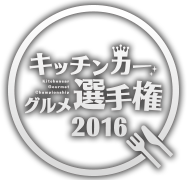
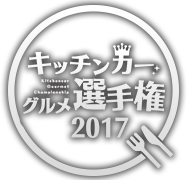
KCC-86 ロゴ画像修正（下層ページ）#close

diff --git a/themes/kitchencar-gourmet-championship/single.php b/themes/kitchencar-gourmet-championship/single.php
@@ -12,7 +12,7 @@ get_header(); ?>
 <div class="content-header">
 	<div class="content-header__image">
 		<a href="<?php echo esc_url(home_url( '/' )); ?>">
-			<img src="<?php echo get_stylesheet_directory_uri(); ?>/static/assets/img/main-logo.png" >
+			<img src="<?php echo get_stylesheet_directory_uri(); ?>/static/assets/img/single-header.png" >
 		</a>
 	</div>
 </div>
